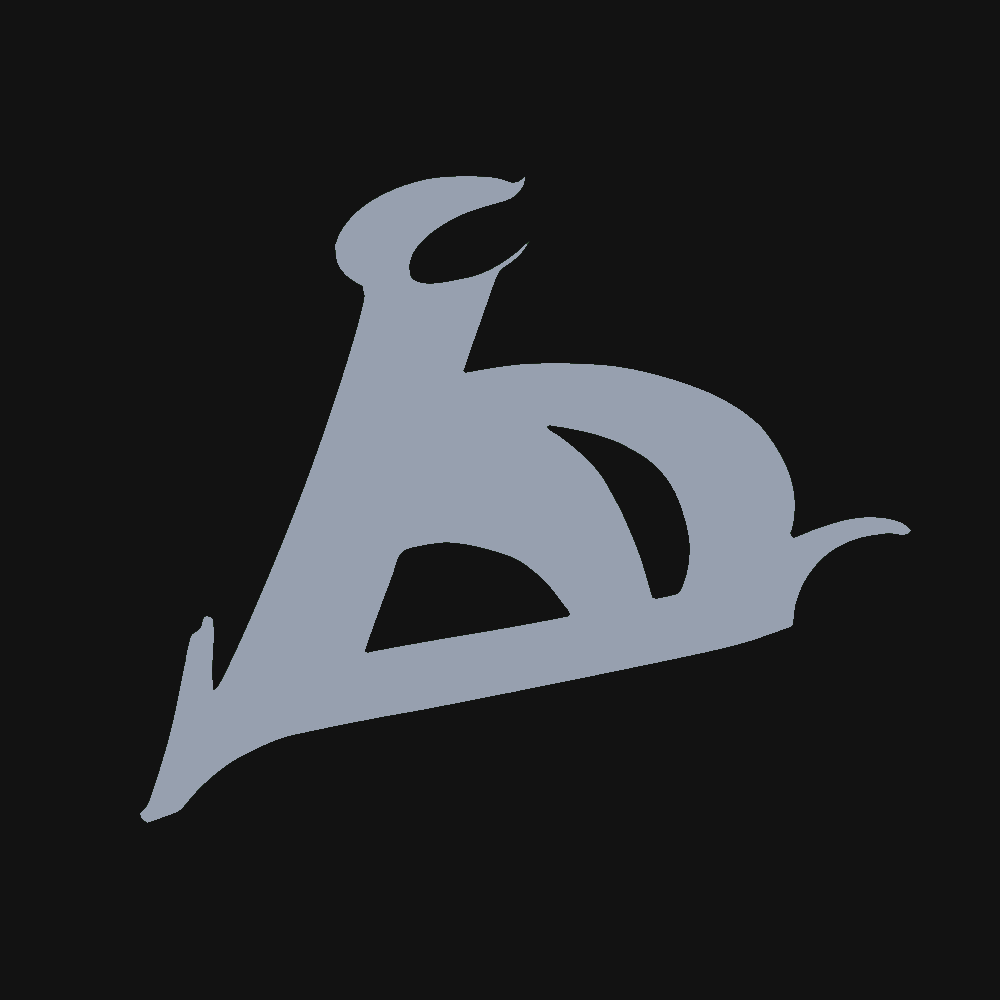
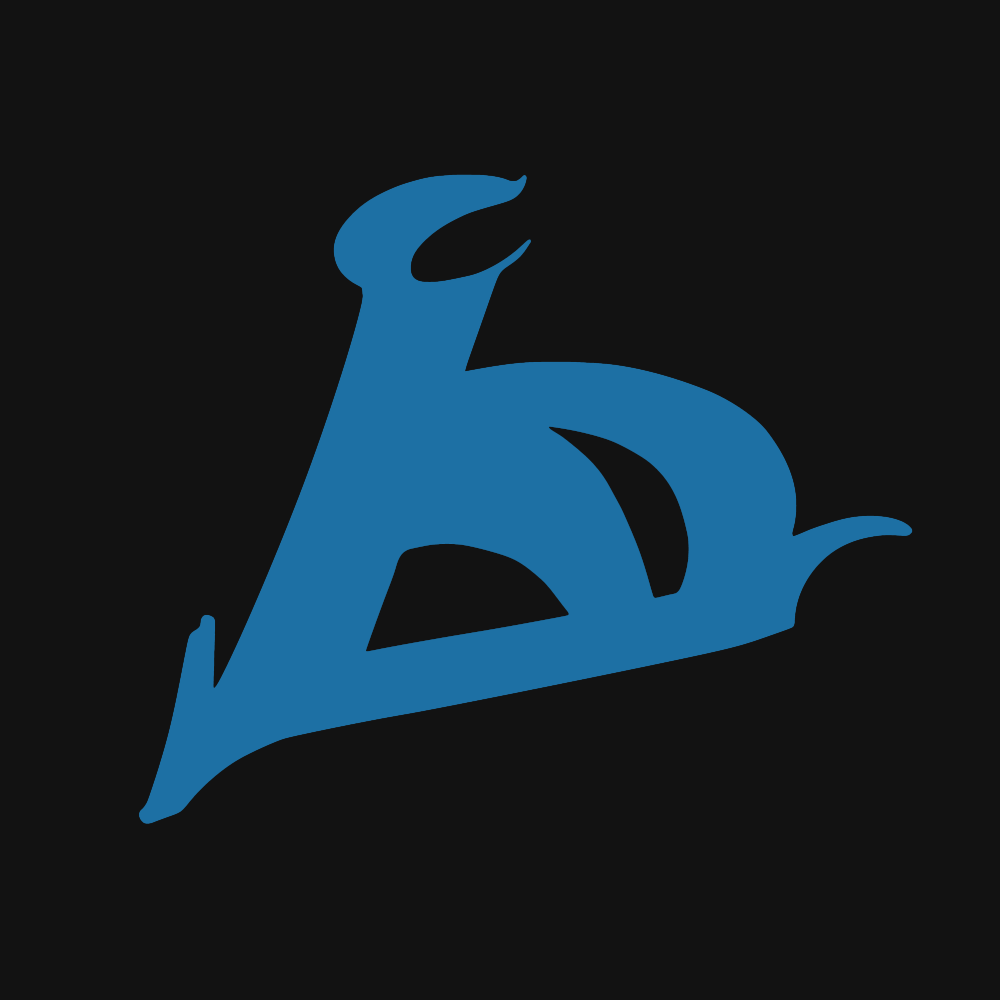
WOW YO SOO NEW SOO COOL

Changed region(s): [[0.124, 0.155, 0.93, 0.837]]

diff --git a/style.css b/style.css
@@ -152,7 +152,7 @@ body{
 }
 
 .bgargil{
-    background-color: #97A0AF !important;
+    background-color: #1d70a4 !important;
 }
 
 .bgimportant {
@@ -188,11 +188,11 @@ body{
 }
 
 .txtargil{
-    color: #97A0AF !important;
+    color: #1d70a4 !important;
 }
 
 .bcargil {
-    border-color: #3f6a40 !important;
+    border-color: #1d70a4 !important;
 }
 
 .txthtgawm{
